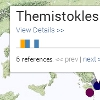
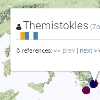
English translation available, some aesthetic stuff

Changed region(s): [[0.0, 0.0, 1.0, 1.0], [0.0, 0.87, 0.21, 1.0], [0.39, 0.99, 0.42, 1.0]]

diff --git a/css/gapvis.less b/css/gapvis.less
@@ -1,6 +1,7 @@
 
 @import "bootstrap.less";
 @import "../lib/colorbox/colorbox.css";
+@import "../lib/bootstrap/less/responsive.less";
 
 // ---------------------------------------------------
 // Settings
@@ -28,12 +29,10 @@
 // Special Colors
 // ---------------------------------------------------
 
-@pers-color: #DA140A;
-@org-color: #96C3FA;
-@place-color: #ADADAD;
-@geog-color: #BCCFA1;
-
-
+@geog-color: #baffba;
+@pers-color: #ffbaba;
+@org-color: #babaff;
+@place-color: #b6b6b6;
 
 // ---------------------------------------------------
 // Basic elements
@@ -43,7 +42,7 @@ html, body {
 }
 h1, h2, h3, h4 {
     color: @daiHeadlineBlack;
-	line-height: 20px;
+	line-height: 25px;
 }
 h1{
  .book-title {
@@ -420,7 +419,7 @@ height: @general-height;
 overflow: auto;
 }
 // single page view
-.text {
+.text, .engText {
  padding: 1.5em 12px;
 }
 .single-page {
@@ -463,9 +462,7 @@ overflow: auto;
         margin-top: 0;
     }
 }
-.related-entities-view p {
-    font-size: .88em;
-}
+
 
 // flickr photos
 .entity-flickr-view {
@@ -567,15 +564,20 @@ div.timeline-event-label {
 .infowindow {
     height: 8em;
     width: 280px;
-    
-    h3 {
+	font-family: @sansFontFamily;
+    span.infowindow-h3 {
         margin: 0 0 .1em 0;
+		 color: @daiHeadlineBlack;
+		line-height: 20px;
+		font-size: 16pt;
+		cursor:pointer;
     }
+
     p {
         margin: 0 0 .5em 0;
     }
     span.zoom {
-        font-size: .6em;
+        //font-size: .6em;
     }
     .pagenum {
         color: #999;
@@ -627,11 +629,12 @@ div.timeline-event-label {
 	fill:  @org-color;
 }
 #legend {
-	position: fixed;
-	top: 105px;
-   right: 41px;
+	position: absolute;
+	top: 275px;
+   right: 58px;
    z-index:199;
    padding: 10px;
+   width:100px;
    font-family: @sansFontFamily;
 }
 .connected-trees-view {
@@ -760,4 +763,9 @@ cursor: pointer;
 			font-size:14pt;
 			cursor:pointer;
 		}
+}
+
+.control-desc{
+padding-right: 30px;
+
 }

diff --git a/app/views/PageControlView.js b/app/views/PageControlView.js
@@ -42,8 +42,10 @@ define(['gv', 'views/BookView'], function(gv, BookView) {
             var view = this,
                 pageView = state.get('pageview');
             // render
-            view.$('.showimg').toggleClass('on', pageView == 'text');
-            view.$('.showtext').toggleClass('on', pageView == 'image');
+			if (state.get('view') == 'reading-view'){
+				view.$('.showeng').toggleClass('on', pageView == 'grc');
+				view.$('.showgrc').toggleClass('on', pageView == 'eng');
+			}
         },
         
         // UI Event Handlers - update state
@@ -51,8 +53,8 @@ define(['gv', 'views/BookView'], function(gv, BookView) {
         events: {
             'click .next.on':       'uiNext',
             'click .prev.on':       'uiPrev',
-            'click .showimg.on':    'uiShowImage',
-            'click .showtext.on':   'uiShowText',
+            'click .showeng.on':    'uiShowEnglish',
+            'click .showgrc.on':   'uiShowGreek',
             'change .page-id':      'uiJumpToPage'
         },
         
@@ -64,12 +66,12 @@ define(['gv', 'views/BookView'], function(gv, BookView) {
             state.set({ pageid: this.prev });
         },
         
-        uiShowImage: function() {
-            state.set({ pageview:'image' })
+        uiShowEnglish: function() {
+            state.set({ pageview:'eng' })
         },
         
-        uiShowText: function() {
-            state.set({ pageview:'text' })
+        uiShowGreek: function() {
+            state.set({ pageview:'grc' })
         },
         
         uiJumpToPage: function(e) {

diff --git a/app/templates/entity-summary-template.html b/app/templates/entity-summary-template.html
@@ -1,13 +1,12 @@
-<span class="<%=type%>" style="margin-bottom:0px;padding-bottom:0px;"><%= type.charAt(0).toUpperCase() + type.slice(1).toLowerCase() %></span> <h2><%= title %></h2>
+<i class="icon-black icon-<% if (type=="ORGANISATION"){%>group<%} else if (type=="PERSON"){%>user<%} else {%>globe<%} %>"></i> <span class="" style="margin-bottom:0px;padding-bottom:0px;font-weight:bold;"><%= type.charAt(0).toUpperCase() + type.slice(1).toLowerCase() %></span> <h2><%= title %></h2>
 <h3><%= ortsbezug %></h3>
 <div class="frequency-bars"></div>
 <p>
     <span class="frequency"><%= frequency %></span> reference<%= frequency == 1 ? "" : "s" %> | <span class="change-this control on">Report a problem with this record</span>
 </p>
 <div></div>
-<ul>
-    <li><a href="<%= uri %>" target="_blank">Entity page on Arachne</a></li>
-    </li>
-	<li><a href="http://gazetteer.dainst.org/app/#!/search?q={%22bool%22:{%22must%22:[{%22nested%22:{%22path%22:%22ids%22,%22query%22:{%22bool%22:{%22must%22:[{%22match%22:{%22ids.value%22:{%22query%22:%22<%= ortsid %>%22,%22operator%22:%22and%22}}},{%22match%22:{%22ids.context%22:%22arachne-place%22}}]}}}}]}}&type=extended" target="_blank">Search for connected place in iDAI.gazetteer</a>
-	</li>
-</ul>
+
+<p><i class="icon-black icon-circle-arrow-right"></i><a href="<%= uri %>" target="_blank"> Entity page on Arachne</a></p>
+
+<p><i class="icon-black icon-globe"></i><a href="http://gazetteer.dainst.org/place/<%= gazetteerid %>" target="_blank"> Connected place in iDAI.gazetteer</a></p>
+

diff --git a/app/templates/book-list-template.html b/app/templates/book-list-template.html
@@ -2,7 +2,7 @@
 <br/><br/>
 	<div> <p>Text passage to view:</p>
     <div class="book-list"></div></div><br/><br/><br/>
-	<span style="position:relative;"><a href="images/athenians-midi.png"  class="gallery"><img title="wordcloud athenians" src="images/athenians_thumb.png" class="well" style="position:absolute;"/><span style="z-index:100;position:absolute;left:60px;top:50px;background-color: rgba(0,0,0,.8);"><h3 style="color:white;"> Athenians </h3></span></a>
-	<a href="images/spartans-midi.png"  class="gallery"><img title="wordcloud spartans" src="images/spartans_thumb.png" class="well" style="position:absolute;left:257px;"/><span style="z-index:100;position:absolute;left:330px;top:50px;background-color: rgba(0,0,0,.8);"><h3 style="color:white;"> Spartans </h3></span></a>
+	<span style="position:relative;"><a href="images/athenians-midi.png"  class="gallery"><img title="wordcloud athenians" src="images/athenians_thumb.png" class="well" style="position:absolute;"/><span style="z-index:100;position:absolute;left:75px;top:121px;"> Athenians </span></a>
+	<a href="images/spartans-midi.png"  class="gallery"><img title="wordcloud spartans" src="images/spartans_thumb.png" class="well" style="position:absolute;left:257px;"/><span style="z-index:100;position:absolute;left:345px;top:121px;">Spartans </span></a>
 	<p style="position:absolute;top:150px;width:500px;">Events performed by the Athenians and the Spartans in Thuc. 1.89-118</p></span>	
 </div>

diff --git a/app/views/PageView.js b/app/views/PageView.js
@@ -30,15 +30,18 @@ define(['gv', 'views/BookView', 'util/slide'], function(gv, BookView, slide) {
             view.renderEntityHighlight();
 		//	view.renderConnectedTrees();
 			view.delegateEvents();
-			 
             return view;
         },
         renderPageView: function() {
             var view = this,
                 pageView = state.get('pageview');
             // render
-            view.$('.text').toggle(pageView == 'text');
-            view.$('.img').toggle(pageView == 'image');
+			if (pageView== null || pageView==""){
+				pageView = 'grc';
+				state.set({ 'pageview': pageView }); 
+			}
+            view.$('.text').toggle(pageView == 'grc');
+            view.$('.engText').toggle(pageView == 'eng');
         },
         
         renderEntityHighlight: function() {
@@ -98,7 +101,8 @@ define(['gv', 'views/BookView', 'util/slide'], function(gv, BookView, slide) {
             var entityId = $(e.target).attr('data-entity-id');
             if (entityId) {
                 state.set('entityid', entityId);
-            }
+            }			
+			state.set({ 'readingview': 'timemap' });
         },
 		uiTreeClick: function(e) {
             var treeId = $(e.target).attr('tree-id');			

diff --git a/index.tmpl.html b/index.tmpl.html
@@ -5,6 +5,7 @@
     <title>GapVis: Visual Interface for Reading Ancient Texts</title>
     <meta name="description" content="GapVis is a visual interface for reading ancient texts for the Google Ancient Places project.">
     <meta name="author" content="Nick Rabinowitz / Google Ancient Places Project">
+	<meta name="viewport" content="width=device-width, initial-scale=1.0" />
     
     <!--[if lt IE 9]>
     <script src="http://html5shim.googlecode.com/svn/trunk/html5.js"></script>
@@ -68,9 +69,9 @@
             <h3>Report an Issue</h3>
         </div>
         <div class="modal-body">
-            <p>Is something wrong with this place reference? Let us know, so we can fix it!</p>
+            <p>Is something wrong with this entity reference? Let us know, so we can fix it!</p>
             <p>
-                Reference: <span class="ref">"<span id="ctf-place-name"></span>" (<span id="ctf-book-title"></span><span class="pagenum">, 
+                Reference: <span class="ref">"<span id="ctf-entity-name"></span>" (<span id="ctf-book-title"></span><span class="pagenum">, 
                 p. <span id="ctf-page-id"></span></span>)</span>
             </p>
             <form>

diff --git a/app/views/RelatedEntitiesView.js b/app/views/RelatedEntitiesView.js
@@ -22,9 +22,16 @@ define(['gv', 'views/BookView'], function(gv, BookView) {
             entity.ready(function() {
                 var related = entity.related(book).slice(0, gv.settings.relatedCount);
                 // create content
-                view.$el.append('<h4>Top Related Entities</h4>');
+                view.$el.append('<h4>Top Co-referenced Entities</h4>');
                 related.forEach(function(r) {
-                    $('<p><span class="entity '+r.entity.get('type')+'" data-entity-id="' + 
+					var iconclass;
+					if (r.entity.get('type')=='PERSON')
+						iconclass = 'user';
+					else if (r.entity.get('type')=='ORGANISATION')
+						iconclass = 'group';
+					else
+						iconclass = 'globe';
+                    $('<p><i class="icon-black icon-'+iconclass+'"></i> <span class="entity '+r.entity.get('type')+'" data-entity-id="' + 
                         r.entity.id + '">' + r.entity.get('title') +
                         '</span> (' + r.count + ')</p>').appendTo(view.el);
                 });

diff --git a/app/templates/index-overview-template.html b/app/templates/index-overview-template.html
@@ -22,7 +22,7 @@
     The Reading View offers an interface for reading the text, including a narrative timeline and a map of recently-referenced entities which are based on the manual annotation by Agnes Thomas. <br/>
 	<b><a href="/gapvis/#book/1/read/90/pers1398714">&rsaquo;&rsaquo; Example for referenced entity</a></b><br/>
 	Additionally, there is the possibility to view related events (historical as well a linguistic) and secondary literature (extracted from <a href="http://www.jstor.org/" target="_blank">JSTOR</a> by Matteo Romanello) of the current test passage.
-	<b><a href="/gapvis/#book/1/read/104?bookid=1&pageid=104&pageview=text&readingview=secondaryliterature">&rsaquo;&rsaquo; Example for secondary literature</a></b>
+	<b><a href="/gapvis/#book/1/read/104?bookid=1&pageid=104&pageview=grc&readingview=secondaryliterature">&rsaquo;&rsaquo; Example for secondary literature</a></b>
 	</p>
 <h3>Entity Detail</h3>
 <p>

diff --git a/app/views/ReadingView.js b/app/views/ReadingView.js
@@ -40,16 +40,16 @@ define(['gv', 'views/BookView', 'views/EventListView','views/TimeMapView', 'view
 				view.secondaryLiteratureView.model = book;
 				view.secondaryLiteratureView.render();
 				view.$el.append(view.secondaryLiteratureView.$el.toggle(false));
-				if (state.get("readingview")== null || state.get("readingview")=="")
-					state.set({ 'readingview': "timemap" }); 
-				view.$el.children("."+state.get("readingview")+"-view").toggle(true);
+				if (state.get('readingview')== null || state.get('readingview')=="")
+					state.set({ 'readingview': 'timemap' }); 
+				view.$el.children("."+state.get('readingview')+"-view").toggle(true);
             
             return this;
         },
 		changeView: function() {	
 	
 			$(".reading-view-left").children("div").toggle(false);
-			$("."+state.get("readingview")+"-view").toggle(true);
+			$("."+state.get('readingview')+"-view").toggle(true);
 		}
         
        

diff --git a/app/templates/info-window-template.html b/app/templates/info-window-template.html
@@ -1,5 +1,5 @@
-<h3><%= title %> <span class="zoom control on">(Zoom In)</span></h3>
-<p><span class="control on goto-entity">View Details &gt;&gt;</span><p>
+<div style="vertical-align:middle; height:104px;display:table-cell;"><i class="icon-black icon-<% if (type=="ORGANISATION"){%>group<%} else if (type=="PERSON"){%>user<%} else {%>globe<%} %>"></i> <span class="infowindow-h3 goto-entity"><%= title %></span> <span class="zoom control on">(Zoom In)</span>
+<!--<p><span class="control on goto-entity">View Details &gt;&gt;</span><p>-->
 <div class="frequency-bars"></div>
 <p>
     <span class="frequency"><%= frequency %></span> reference<%= frequency == 1 ? "" : "s" %><span class="controls">:
@@ -7,4 +7,4 @@
         <span class="control prev">&lt;&lt; prev</span> | 
         <span class="control next">next &gt;&gt;</span>
     </span>
-</p>
+</p></div>

diff --git a/app/templates/navigation-view-template.html b/app/templates/navigation-view-template.html
@@ -4,7 +4,7 @@
   <button class="btn btn-primary" title="Entity Detail" data-view-id="entity-view"><i class="icon-map-marker icon-white"></i> Entity Detail</button>
   <button class="btn btn-primary" title="Tree View" data-view-id="tree-view"><i class="icon-leaf"></i> Tree View</button>
   <button class="btn btn-primary" title="Legend"><i class="icon-info-sign icon-white"></i> Legend</button></nav>
+  <a class="permalink btn btn-primary" title="Permalink" href="#"><i class="icon-bookmark icon-white"></i></a>
   <div id="legend" class="panel" style="display:none;"><div class="ORGANISATION">Organisation</div><div class="PLACE">Place</div><div class="GEOGRAPHY">Geography</div><div class="PERSON">Person</div></div>
 
 
-<a class="permalink btn btn-primary" title="Permalink" href="#"><i class="icon-bookmark icon-white"></i></a>

diff --git a/app/templates/book-title-template.html b/app/templates/book-title-template.html
@@ -1,7 +1,6 @@
 <h1 class="book-title"><%= title %></h1>
 <p><em><%= author %></em></p>
-<p>
-   <!-- Published <%= printed %><!--, <%= pages.length %> pages --> &middot;
-    <a target="_blank" href="<%= "http://data.perseus.org/citations/"+gv.state.getCtsUrn()
-	%>"><b>View on Perseus:</b> <%= gv.state.getCtsUrn() %></a>
+<p>  
+    <b>Current passage on Perseus:</b> <i class="icon-black icon-circle-arrow-right"></i><a target="_blank" href="<%= "http://data.perseus.org/citations/"+gv.state.getCtsUrn()
+	%>"> <%= gv.state.getCtsUrn() %></a>
 </p>
